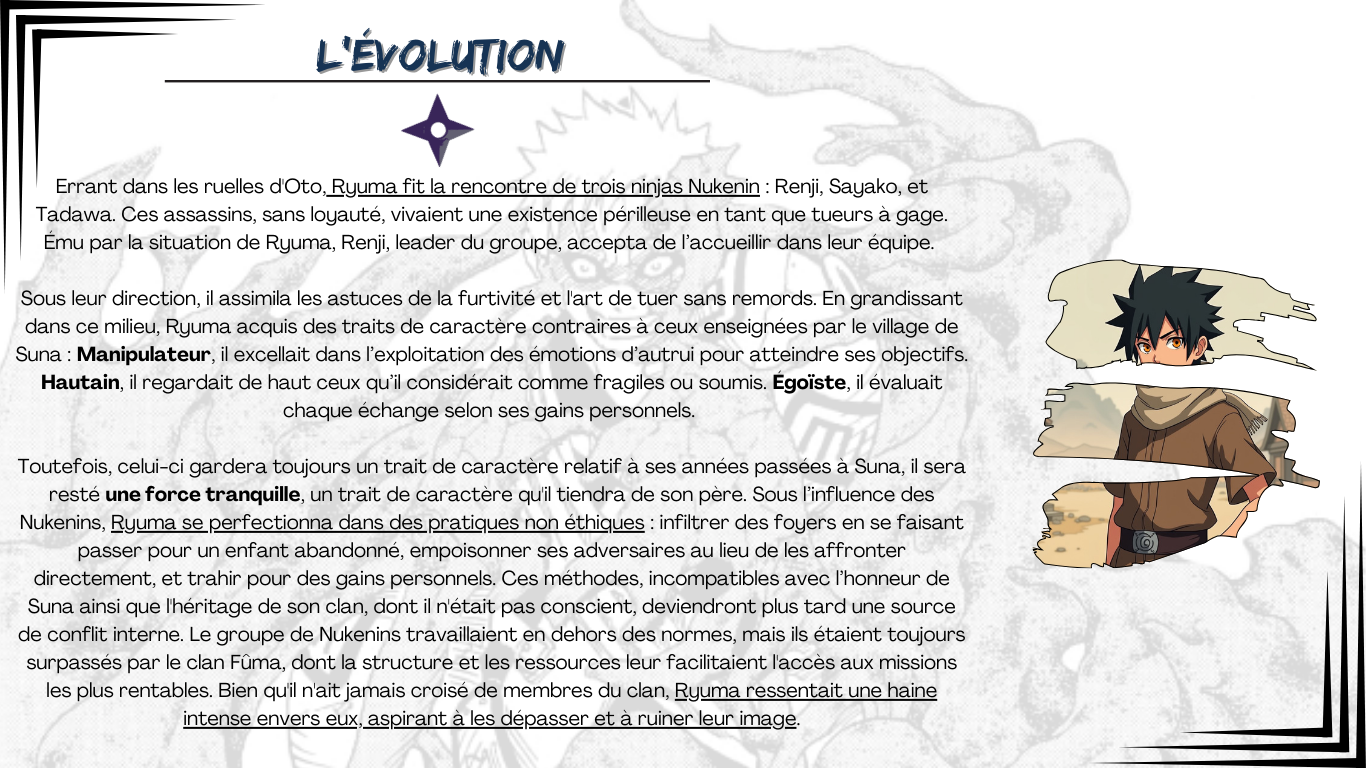
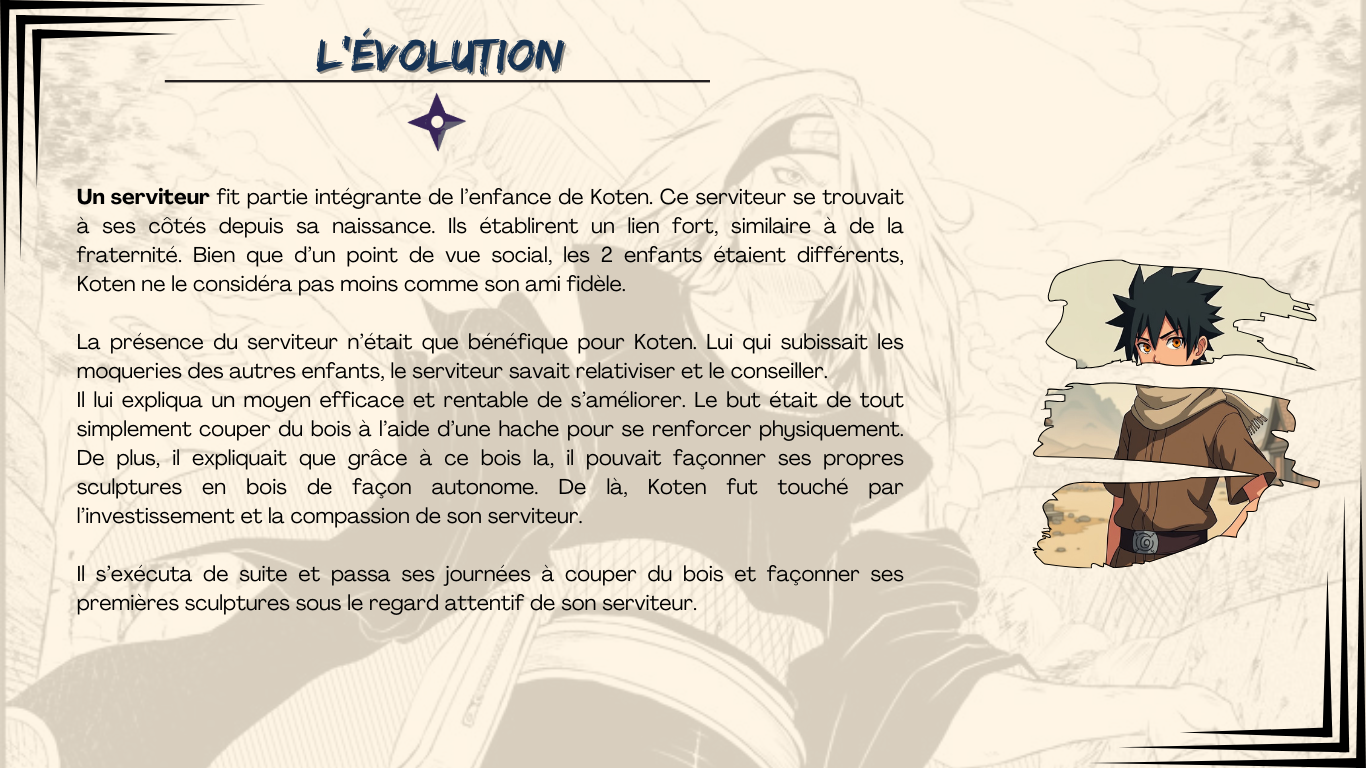
kitsushi

diff --git a/app/components/Objectif.tsx b/app/components/Objectif.tsx
@@ -15,88 +15,53 @@ interface ObjectifData {
 // Constants
 const objectifsClan: ObjectifData[] = [
   {
-    title: "Eveiller ses Yomegan",
+    title: "Rechercher les terres de ses ancêtres",
     content:
-      "Par peur d'être abandonné une seconde fois, Ryuma fera tout ce qui est en son pouvoir afin d'eveiller ses Yomegan. Il réalisera le rite autant de fois qu'il le peut si nécessaire. Il souhaite réellement prouver à son père qu'il sera utile au clan en tant que guerrier.",
+      "Koten cherchera à se renseigner sur ses ancêtres et les terres qu'ils ont habité avant de venir à Kusa. Il souhaiterait en savoir plus sur l'histoire de son clan qui ne contient que très peu de récits. Il pense que les anciennes sculptures laissées par ses ancêtres lui permettront de mieux comprendre ses origines.",
+  },
+  {
+    title: "Apprendre les moeurs et tradition du clan",
+    content:
+      "Koten suivra l'éducation de son père afin d'apprendre toutes les traditions et héritages du clan. Le but étant de faire perpétuer ces valeurs aux prochaines générations du clan.",
   },
   {
     title: "Corpus secret",
     content:
-      "Ryuma souhaitera garder des traces écrites de l'histoire du clan Satsu tel qu'il le connait. Suite à cette amnésie et cette perte d'identité temporaire que ses ancêtres ont subit, il juge nécessaire d'archiver dans un document secret l'histoire de son clan. En réalité, il s'agit d'un prétexte pour référencer tout ce qu'il connait du clan et avoir un moyen de pression supplémentaire si jamais le clan venait à le trahir une seconde fois.",
+      "Koten souhaitera garder des traces écrites de l'histoire du clan Kitsushi tel qu'il le connait. Suite à cette amnésie et cette perte d'identité temporaire que ses ancêtres ont subit, il juge nécessaire d'archiver dans un document secret l'histoire de son clan. Ce corpus pourrait être illustré de sculptures.",
   },
   {
-    title: "Dojo Satsu",
+    title: "Dojo Kitsushi",
     content:
-      "Le dojo Satsu accueillera les ninjas souhaitant apprendre l'art du forgeron ou l'art de l'assassinat. Ils pourront se spécialiser dans ces deux disciplines et les meilleurs peuvent espérer intégrer la forge, ou une garde spéciale d'assassins. Il s'agit également un moyen pour Ryuma de repérer des potentiels pions pour son échiquier.",
-  },
-  {
-    title: "Assurer la perennité de la forge",
-    content:
-      "La forge est une institution importante pour le clan mais également pour le village. Ryuma essaiera de populariser la forge et faire tourner l'économie du village grâce à elle. De plus, il souhaite placer la forge comme étant une institution dont le village en sera énormément dépendant au niveau de l'armement. Ce qui rendra le village redevable au clan Satsu, et ce dernier gagnera de la reconnaissance et de l'importance au sein de Suna.",
-  },
-  {
-    title: "Asseoir son autorité",
-    content:
-      "Ryuma utilisera la désinformation et la manipulation de l'opinion publique pour ternir la réputation du clan Fûma et donc éteindre toute rivalité entre les deux clans.  Il organisera des missions de traques et d'assassinat en compétition avec le clan Fûma, afin d'entrainer les membres du clan Satsu à garder leurs sens aiguisés. Cette domination sur les Fûma pourra assouvir, en partie, la haine de Ryuma envers ce clan.",
-  },
-  {
-    title: "Système de missions",
-    content:
-      "Mise en place d'un système pour contacter le clan afin de réaliser des missions de type tueur à gage.",
-  },
-  {
-    title: "Relations Sabaku",
-    content:
-      "Ryuma souhaite entretenir une relation étroite avec les Sabaku en les soutenant dans leurs projets. Ce comportement montre la gratitude qu'il a envers ce clan au vu de la main salvatrice que les Sabaku ont tendu au ancetres de Ryuma. Ce soutien pourrait apporter des bienfaits aux Satsu à l'avenir. Par exemple, il pourrait utiliser la régence du clan afin de promouvoir la forge.",
+      "Le dojo Kitsushi accueillera les ninjas souhaitant apprendre l'art du sculpteur. Il aimerait mettre en avant et populariser cet art auprès des personnes qui ne sont pas familier des capacités du clan Kitsushi",
   },
 
   {
     title: "Relations entre les clans",
     content:
-      "Ryuma fera en sorte d'étudier les relations entre les clans. Le but final est de faire prospérer le clan, en protégeant les intérêts du clan, en réunissant les membres de son clan, en essayant de rendre le clan soudé et fort et en affirmant sa position au sein du village. Cela se fera en étudiant les liens entre les différents clans car ils sont les piliers du village. En organisant des réunions, en débattant, en exposant nos points de vue. En réalité, il s’agit également d’un plan qui utilise la neutralité du clan Satsu afin de gagner de la reconnaissance auprès des autres clans, et se servir de cette notoriété pour la mettre au profit des Sabaku en échange d'un soutien de leur part au sein du village.",
+      "Koten fera en sorte d'étudier les relations entre les clans suite à l'unification des villages. Le but final est de faire prospérer le clan, en protégeant les intérêts du clan, en réunissant les membres de son clan, en essayant de rendre le clan soudé et fort et en affirmant sa position au sein du village. Cela se fera en étudiant les liens entre les différents clans car ils sont les piliers du village. En organisant des réunions, en débattant, en exposant nos points de vue.",
   },
 ];
 
 const objectifsPersonnels: ObjectifData[] = [
   {
-    title: "Aiguiser sa lame",
+    title: "Renforcer son lien avec son serviteur",
     content:
-      "Ryuma continuera de s'entrainer sans relâche afin d'aiguiser sa lame d'assassin et de guerrier. De plus, il développera ses compétences en kenjutsu qui lui serviront pour affiner son apprentissage dans l'art de l'assassinat. Il fera en sorte de se démarquer des autres dans ces domaines afin de graver son nom dans l'histoire comme étant un grand manieur de sabre, et un assassin redouté du monde ninja.",
-  },
-  {
-    title: "Forgeron hors pair",
-    content:
-      "Ryuma poursuivra son entrainement auprès de son père en tant que Forgeron. Etre un guerrier ne suffit pas, il doit également prouver sa valeur et contribuer à la forge du clan.",
+      "Koten souhaite réellement établir un lien fort avec son serviteur. Il souhaite que sa relation avec lui ne soit pas uniquément lié à ces statuts maitre/serviteur. Il a besoin d'un second pouvant l'épauler et le conseiller dans ses projets. Il aimerait que ce serviteur puisse occuper un poste important au sein du village.",
   },
   {
     title: "Maîtriser le Fuinjutsu",
     content:
-      "Ryuma tâchera de trouver un maitre afin d'apprendre le fuinjutsu. Cette technique lui permettra de sceller les secrets du clan, ou bien les multitudes d'armes qui seront forgées par le clan afin d'éviter qu'ils tombent entre de mauvaises mains.",
+      "Koten tâchera de trouver un maitre afin d'apprendre le fuinjutsu. Cette technique lui permettra de sceller les secrets du clan, ils lui serviront aussi pour son projet à la section policière.",
   },
   {
-    title: "Rejoindre la Keisatsu",
+    title: "Rejoindre la Seibai",
     content:
-      "Ryuma fera en sorte d'être stagiaire au sein de la Keisatsu le plus rapidement possible. La Keisatsu lui permet d'être au coeur de nombreux évenements au sein du village ce qui lui permettra de récolter beaucoup d'informations qui lui serviront à l'avenir, des informations qu'il pourrait manipuler.",
+      "Koten fera en sorte de rejoindre la Seibai le plus rapidement possible. La Seibai lui permet d'être au coeur de nombreux évenements au sein du village ce qui lui permettra de récolter beaucoup d'informations qui lui serviront à l'avenir, des informations qu'il pourrait potentillement manipuler. Le but secondaire est de prendre la tête de cette section et montrer que les Kitsushi peuvent hériter de grandes responsabilités.",
   },
   {
-    title: "Créer un réel lien familial",
+    title: "Révolutionner les lois et sanctions de la Seibai",
     content:
-      "Bien que Ryuma soit encore confus de la raison de son abandon. Il cherchera à comprendre et assimiler la mentalité de son père afin de mieux cerner les raisons de son abandon. Le côté soucieux de Ryuma l'oblige à parfois se remettre en question. De par l'éducation du père et du lien qu'ils vont créer, il aimerait retrouver les valeurs de Suna et mettre de côté les mauvaises habitudes qu'il a commencé a developper lors de son enfance au pays du Son. Au fond de de lui, il possède l'envie d'appartenir au village et oublier les événements du passé. En plus de cela, il souhaiterait renouer avec les autres membres du clan qu'il n'a pas vu depuis plusieurs années, son caractère actuel lui fera parfois défaut, mais il essaiera de faire des efforts.",
-  },
-  {
-    title: "Révolutionner les lois et sanctions de la Keisatsu",
-    content:
-      "Le système et les lois d'un village peuvent changer au fur et à mesure de l'évolution de ses habitants. Ryuma souhaite donc effectuer de la recherche, et partir en reconnaissance dans les autres pays afin d'étudier leur section policière et leur système de loi. Il pense qu'il pourrait potentiellement s'inspirer afin d'améliorer le système de Suna et garantir la sécurité et la perennité du village. L'une des raisons principales de l'apprentissage du Fuinjutsu pour Ryuma, est d'intégrer cette pratique dans les sanctions du village. Pour Ryuma, ce genre de sanctions peut-être bénéfique pour empecher le recidivisme et montrer le bon exemple. Bien evidemment, ces sanctions seront adaptés aux infractions commises. Comme vous pouvez le comprendre, le fuinjutsu permettra de placer différents types de sceaux sur l'individu en fonction de la nature de sa sanction.",
-  },
-  {
-    title: "Rallier un clan mineur à sa cause",
-    content:
-      "Ryuma est conscient que les sans clans sont également des piliers au sein du village et que leur voix compte étant donné qu'ils constituent la majorité des ninjas du village. La politique est très importante. Afin d'affirmer sa position il est nécessaire d'avoir des alliés fidèles. Il essaiera de rallier à sa cause un clan mineur ayant des intérêt communs avec lui, et les contrôler. Sur le long terme, il essaiera de placer des membres de ce clan sur des postes intéressants au sein village et manipuler l'opinion publique en sa faveur et en faveur du clan.",
-  },
-  {
-    title: "Composer son échiquier",
-    content:
-      "Ryuma est calculateur. Pour lui le monde n'est qu'un géant échiquier ayant besoin d'un joueur sachant bouger les bonnes pièces. Il tâchera de trouver ses pièces au sein du village, ou hors du village. Des pièces qu'il pourrait contrôler, influencer, ou guider. Un roi respecté du peuple qu'il utilisera pour mettre en avant ses idées et son clan. Une reine possédant des passe-droits pouvant trancher sur des décisions importantes et inverser la balance. Une tour et un fou pouvant naviguer librement et partir en reconnaissance apportant des informations cruciales. Un cavalier loyal mais libre comme un éléctron qui pourrait jouer double-jeu en faveur de Ryuma. Et des pions qui serviront à exécuter des tâches ingrates mais nécessaires pour que Ryuma, son clan et le village prospèrent, les pions seront les pièces les plus importantes pour mettre en place la base de l'échiquier.",
+      "Le système et les lois d'un village peuvent changer au fur et à mesure de l'évolution de ses habitants. Koten souhaite donc effectuer de la recherche, et partir en reconnaissance dans les autres pays afin d'étudier leur section policière et leur système de loi. Il pense qu'il pourrait potentiellement s'inspirer afin d'améliorer le système de Suna et garantir la sécurité et la perennité du village. L'une des raisons principales de l'apprentissage du Fuinjutsu pour Koten, est d'intégrer cette pratique dans les sanctions du village. Pour Koten, ce genre de sanctions peut-être bénéfique pour empecher le recidivisme et montrer le bon exemple. Bien evidemment, ces sanctions seront adaptés aux infractions commises. Comme vous pouvez le comprendre, le fuinjutsu permettra de placer différents types de sceaux sur l'individu en fonction de la nature de sa sanction.",
   },
 ];
 

diff --git a/app/components/Caracteristique.tsx b/app/components/Caracteristique.tsx
@@ -45,21 +45,21 @@ const CaractereModal = ({ onClose }: { onClose: () => void }) => {
 
   const traits: TraitDeCaractere[] = [
     {
-      titre: "Méfiant et Hautain",
+      titre: "Loyal",
       description:
-        "Ryuma aura beaucoup de mal à accorder sa confiance à une personne. Il évaluera d'abord les intentions de cette personne et ne lui laissera jamais la mainmise totale sur ses projets. Il évitera de s'associer avec des personnes qu'il considère comme étant faible.",
+        "Koten vouera une loyauté sans faille au village et à son clan. Il agira toujours dans l'intérêt de ces derniers.",
       gif: "/img/caractéristiques/loyal_gif.gif",
     },
     {
       titre: "Calculateur et Manipulateur",
       description:
-        "L'aspect calculateur permet à Ryuma de tirer avantage de certaines situations, chacune de ses décisions serviront à un but précis. Il n'hésitera pas à manipuler les gens pour son propre intérêt. Il ne fait rien sans arrière-pensées.",
+        "L'aspect calculateur permet à Koten de tirer avantage de certaines situations, chacune de ses décisions serviront à un but précis. Il n'hésitera pas à manipuler les gens pour son propre intérêt. Il ne fait rien sans arrière-pensées.",
       gif: "/img/caractéristiques/calculateur_gif.gif",
     },
     {
       titre: "Sociable ?",
       description:
-        "Ryuma se montrera sociable et quelque peu extraverti. Cela lui permet de facilement tisser des liens... tout en masquant ses intentions. Il s'agit principalement d'une façade, il montre son engouement par rapport à son retour au village afin de facilement gagner la confiance des autres. Sa vraie nature est plutôt calme et posé.",
+        "Koten se montrera sociable et quelque peu extraverti. Cela lui permet de facilement tisser des liens... tout en masquant ses intentions. Il s'agit principalement d'une façade, afin de facilement gagner la confiance des autres. Sa vraie nature est plutôt calme et posée.",
       gif: "/img/caractéristiques/sociable_gif.gif",
     },
   ];
@@ -68,14 +68,8 @@ const CaractereModal = ({ onClose }: { onClose: () => void }) => {
     {
       titre: "Kleptomane",
       description:
-        "Le passé de Ryuma à Oto l'a rendu Kleptomane. Il ressent constamment le besoin de voler. A l'époque il volait pour survivre, mais en grandissant il a apprit à voler pour avoir une forme de pression, un contrôle sur les autres. Cela lui donne le sentiment d'avoir le dessus sur les gens. Sa kleptomanie pourrait lui causer du tort car il poussait créer des tensions au sein du village ou du clan.",
+        "Pour se venger des moqueries, Koten a pris la mauvaise habitude voler ses camarades. Il ressent constamment le besoin de voler. A l'époque il volait par vengeance, mais en grandissant il a apprit à voler pour avoir une forme de pression, un contrôle sur les autres. Cela lui donne le sentiment d'avoir le dessus sur les gens.",
       gif: "/img/caractéristiques/kleptomane.gif", // À remplacer par le vrai GIF
-    },
-    {
-      titre: "Soucieux",
-      description:
-        "Ryuma est parfois soucieux, de son avenir, de sa relation avec son père, de sa relation avec les autres. Il est conscient de ses défauts, il aimerait retrouver ses valeurs mais son passé reprend le dessus. Il se remet parfois en question sur ses actes.",
-      gif: "/img/caractéristiques/soucieux.gif", // À remplacer par le vrai GIF
     },
   ];
 
@@ -192,7 +186,7 @@ const CaractereModal = ({ onClose }: { onClose: () => void }) => {
               ))}
             </div>
 
-            <div className="grid grid-cols-1 md:grid-cols-2 gap-6 w-full max-w-[800px] mx-auto mt-6">
+            <div className="grid grid-cols-1 md:grid-cols-1 gap-6 w-full max-w-[800px] mx-auto mt-6">
               {traitsSecondaires.map((trait, index) => (
                 <motion.div
                   key={trait.titre}

diff --git a/app/components/Hero.tsx b/app/components/Hero.tsx
@@ -128,14 +128,14 @@ export default function Hero() {
           alt="Village de Kusa"
           fill
           priority
-          className="object-cover blur-xl"
+          className="object-cover blur-sm"
           sizes="100vw"
           quality={90}
         />
       </motion.div>
 
       {/* Particules flottantes */}
-      <div className="absolute inset-0 pointer-events-none">
+      <div className="absolute inset-0 pointer-events-none bg-hero">
         {particles.map((particle) => (
           <motion.div
             key={particle.id}
@@ -196,7 +196,7 @@ export default function Hero() {
         >
           <Image
             src="/img/Titre.png"
-            alt="Koren Kitsushi"
+            alt="Koten Kitsushi"
             width={1000}
             height={600}
             priority
@@ -229,7 +229,7 @@ export default function Hero() {
         <div className="relative w-full h-full">
           <Image
             src="/img/ninja.png"
-            alt="Koren Kitsushi Character"
+            alt="Koten Kitsushi Character"
             fill
             className="object-contain object-bottom"
             sizes="(max-width: 768px) 100vw, 800px"

diff --git a/app/components/Story.tsx b/app/components/Story.tsx
@@ -15,9 +15,9 @@ interface StoryData {
 
 const stories: StoryData[] = [
   {
-    title: "L'Abandon",
+    title: "COMMENCEMENT",
     content: "Contenu détaillé de l'histoire de l'abandon...",
-    backgroundImage: "/img/story/card-1.jpg",
+    backgroundImage: "/img/story/card-1.png",
     modalImage: "/img/story/eclosion_modal.png",
   },
   {
@@ -29,7 +29,7 @@ const stories: StoryData[] = [
   {
     title: "Nouveau départ",
     content: "Contenu de l'histoire 3...",
-    backgroundImage: "/img/story/card-3.jpg",
+    backgroundImage: "/img/story/card-3.png",
     modalImage: "/img/story/nouvelere_modal.png",
   },
 ];

diff --git a/app/components/Footer.tsx b/app/components/Footer.tsx
@@ -38,7 +38,7 @@ const Footer = () => {
               className="opacity-80"
             />
             <p className="text-sand-300 text-sm">
-              Découvrez l&apos;histoire de Koren Kitsushi, ninja de Kusa
+              Découvrez l&apos;histoire de Koten Kitsushi, ninja de Kusa
             </p>
           </motion.div>
 
@@ -69,7 +69,7 @@ const Footer = () => {
             viewport={{ once: true }}
             className="text-sand-400 text-sm"
           >
-            © {currentYear} Koren Kitsushi
+            © {currentYear} Koten Kitsushi
           </motion.div>
         </div>
 

diff --git a/tailwind.config.ts b/tailwind.config.ts
@@ -8,8 +8,8 @@ export default {
   ],
   theme: {
     extend: {
-      blur: {
-        lg: "16px",
+      backgroundImage: {
+        hero: "url('/img/youtube.gif')",
       },
       colors: {
         background: "var(--background)",

diff --git a/app/globals.css b/app/globals.css
@@ -24,6 +24,7 @@
 
 body {
   color: var(--foreground);
+  background-image: "/img/youtube-video-gif.gif";
   background-color: black;
   font-family: "Edo", sans-serif;
 }
